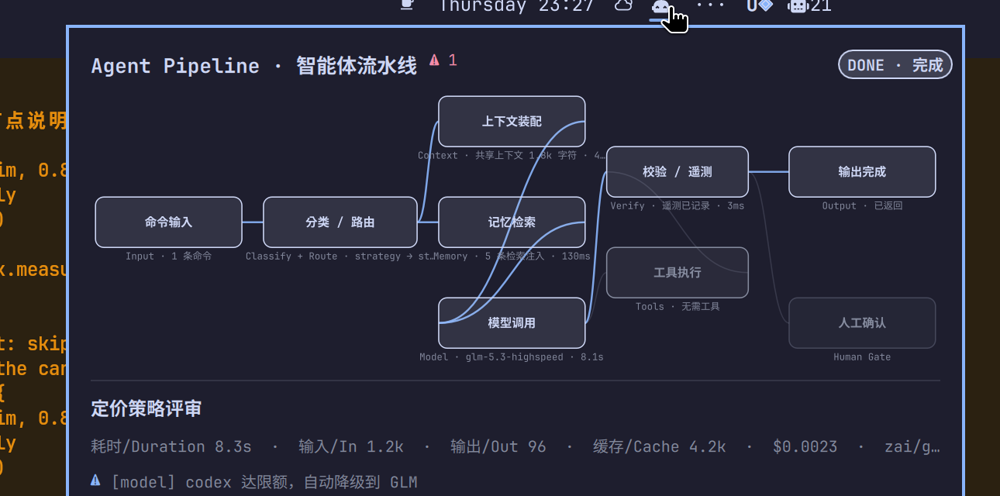
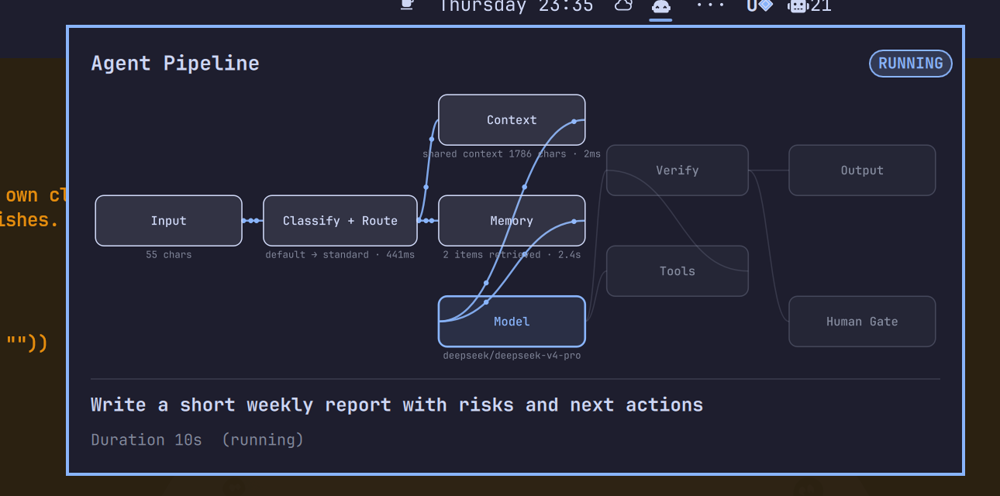
Agent Pipeline 0.3.0: English UI, live synchronized view
- every label, node name and panel string is English (Input, Classify + Route,
  Context, Memory, Model, Tools, Verify, Human Gate, Output; RUNNING/DONE/ERROR)
- the request caption is the owner's actual command, recorded verbatim
- live view while running: active node highlighted, dots flowing along the
  traversed edges, duration counting up (Duration 12s (running))
- README, demo data and examples in English

diff --git a/Panel.qml b/Panel.qml
@@ -40,6 +40,18 @@ Panel {
 
   // Flow animation: only while a request is in flight, so an idle bar costs nothing.
   property real phase: 0
+  property double nowMs: Date.now()
+
+  // While a request is in flight the panel ticks its own clock, so the duration
+  // counts up instead of showing 0 until the run finishes.
+  function liveDurationMs() {
+    if (!root.latest) return 0
+    var done = Model.durationMs(root.latest)
+    if (done) return done
+    var started = Date.parse(String(root.latest.at || ""))
+    if (isNaN(started)) return 0
+    return Math.max(0, root.nowMs - started)
+  }
   readonly property bool animating: !!latest && String(latest.state) === "running"
   readonly property var latestIssues: Model.issues(latest)
   readonly property int problems: Model.problemCount(latest)
@@ -68,10 +80,10 @@ Panel {
 
   function stateLabel(state) {
     var s = String(state || "").toLowerCase()
-    if (s === "done") return "DONE · 完成"
-    if (s === "running") return "RUNNING · 运行中"
-    if (s === "error") return "ERROR · 失败"
-    return "IDLE · 空闲"
+    if (s === "done") return "DONE"
+    if (s === "running") return "RUNNING"
+    if (s === "error") return "ERROR"
+    return "IDLE"
   }
 
   function withAlpha(c, a) {
@@ -135,6 +147,7 @@ Panel {
     repeat: true
     onTriggered: {
       root.phase = (root.phase + 0.06) % 1.0
+      root.nowMs = Date.now()
       graph.requestPaint()
     }
   }
@@ -166,7 +179,7 @@ Panel {
           spacing: Style.space(8)
 
           Text {
-            text: "Agent Pipeline · 智能体流水线"
+            text: "Agent Pipeline"
             color: root.foreground
             font.family: root.fontFamily
             font.pixelSize: Style.font.subtitle
@@ -295,7 +308,7 @@ Panel {
 
               var bits = []
               var en = Model.nodeSubtitle(node)
-              if (en) bits.push(en)
+              if (en && en !== String(node.label || "")) bits.push(en)
               var detail = Model.nodeDetail(root.latest, node.id)
               if (detail) bits.push(detail)
               var ms = Model.fmtMs(Model.nodeMs(root.latest, node.id))
@@ -330,7 +343,7 @@ Panel {
         Text {
           width: parent.width
           visible: !root.latest
-          text: "暂无记录 / No requests recorded yet. Any agent runtime can append to " + root.dataPath
+          text: "No requests recorded yet. Any agent runtime can append to " + root.dataPath
           color: root.dim
           font.family: root.fontFamily
           font.pixelSize: Style.font.body
@@ -354,10 +367,11 @@ Panel {
           text: {
             if (!root.latest) return ""
             var t = root.latest.tokens || {}
-            var bits = ["耗时/Duration " + (Model.fmtMs(Model.durationMs(root.latest)) || "0ms")]
-            if (t.input) bits.push("输入/In " + Model.fmtTokens(t.input))
-            if (t.output) bits.push("输出/Out " + Model.fmtTokens(t.output))
-            if (t.cacheRead) bits.push("缓存/Cache " + Model.fmtTokens(t.cacheRead))
+            var dur = Model.fmtMs(root.liveDurationMs()) || "0ms"
+            var bits = ["Duration " + dur + (root.animating ? "  (running)" : "")]
+            if (t.input) bits.push("In " + Model.fmtTokens(t.input))
+            if (t.output) bits.push("Out " + Model.fmtTokens(t.output))
+            if (t.cacheRead) bits.push("Cache " + Model.fmtTokens(t.cacheRead))
             var cost = Model.fmtCost(t.costUsd)
             if (cost !== "") bits.push(cost)
             if (root.latest.model) bits.push(root.latest.model)
@@ -407,7 +421,7 @@ Panel {
 
         Text {
           visible: root.recent.length > 0
-          text: "RECENT · 最近"
+          text: "RECENT"
           color: root.dim
           font.family: root.fontFamily
           font.pixelSize: Style.font.caption

diff --git a/Model.js b/Model.js
@@ -35,27 +35,27 @@ function parse(text) {
 var DEFAULT_ARCH = {
   width: 712, height: 236,
   nodes: [
-    { id: "input",      label: "命令输入",    labelEn: "Input",              x: 6,   y: 96,  w: 122, h: 42 },
-    { id: "router",     label: "分类 / 路由", labelEn: "Classify + Route",   x: 146, y: 96,  w: 128, h: 42 },
-    { id: "context",    label: "上下文装配",  labelEn: "Context",            x: 292, y: 12,  w: 122, h: 42 },
-    { id: "memory",     label: "记忆检索",    labelEn: "Memory",             x: 292, y: 96,  w: 122, h: 42 },
-    { id: "model",      label: "模型调用",    labelEn: "Model",              x: 292, y: 180, w: 122, h: 42 },
-    { id: "tools",      label: "工具执行",    labelEn: "Tools",              x: 432, y: 138, w: 118, h: 42 },
-    { id: "verify",     label: "校验 / 遥测", labelEn: "Verify",             x: 432, y: 54,  w: 118, h: 42 },
-    { id: "human_gate", label: "人工确认",    labelEn: "Human Gate",         x: 584, y: 180, w: 122, h: 42 },
-    { id: "output",     label: "输出完成",    labelEn: "Output",             x: 584, y: 54,  w: 122, h: 42 }
+    { id: "input",      label: "Input",            x: 6,   y: 96,  w: 122, h: 42 },
+    { id: "router",     label: "Classify + Route", x: 146, y: 96,  w: 128, h: 42 },
+    { id: "context",    label: "Context",          x: 292, y: 12,  w: 122, h: 42 },
+    { id: "memory",     label: "Memory",           x: 292, y: 96,  w: 122, h: 42 },
+    { id: "model",      label: "Model",            x: 292, y: 180, w: 122, h: 42 },
+    { id: "tools",      label: "Tools",            x: 432, y: 138, w: 118, h: 42 },
+    { id: "verify",     label: "Verify",           x: 432, y: 54,  w: 118, h: 42 },
+    { id: "human_gate", label: "Human Gate",       x: 584, y: 180, w: 122, h: 42 },
+    { id: "output",     label: "Output",           x: 584, y: 54,  w: 122, h: 42 }
   ],
   edges: [
     { from: "input", to: "router" },
-    { from: "router", to: "context", label: "上下文" },
-    { from: "router", to: "memory", label: "检索" },
+    { from: "router", to: "context", label: "context" },
+    { from: "router", to: "memory", label: "retrieve" },
     { from: "context", to: "model" },
     { from: "memory", to: "model" },
-    { from: "model", to: "tools", label: "需要工具" },
-    { from: "model", to: "verify", label: "回答" },
+    { from: "model", to: "tools", label: "needs tools" },
+    { from: "model", to: "verify", label: "answer" },
     { from: "tools", to: "verify" },
     { from: "verify", to: "output" },
-    { from: "verify", to: "human_gate", label: "需人工" }
+    { from: "verify", to: "human_gate", label: "needs human" }
   ]
 }
 

diff --git a/README.md b/README.md
@@ -28,19 +28,13 @@ The panel draws the agent's architecture as a **graph**, not a list:
 - under the graph: the request's duration, tokens (input / output / cache), cost, model, and
   every problem encountered (`issues`).
 
-That is enough to explain an agent run to someone who has never seen one: what it classified
-the request as, which model it chose, what it retrieved, which tools it ran, and what went wrong.
+While a request is still running the panel is **live**: the active node is highlighted, small
+dots flow along the edges it has traversed, the duration counts up, and the path fills in as the
+run progresses. It is a synchronized view of the run, not a post-mortem — which is what makes it
+usable for explaining an agent to someone who has never seen one: what it classified the request
+as, which model it chose, what it retrieved, which tools it ran, and what went wrong.
 
 ![pipeline graph](preview.png)
-
-## Compact, bilingual layout
-
-The canvas is sized to the graph's own bounding box (`contentBounds`), not to a fixed canvas
-area, so the panel stays tight whatever a runtime draws. Node cards carry the name in Chinese
-with `labelEn` (or the stage id) plus the runtime detail and duration underneath, and the panel
-labels are bilingual: `Agent Pipeline · 智能体流水线`, `DONE · 完成`, `均值/Duration`, `输入/In`,
-`输出/Out`, `缓存/Cache`, `RECENT · 最近`. Edge labels are skipped on short hops so they never
-sit on top of a node caption.
 
 ## How it gets data
 
@@ -56,26 +50,26 @@ $XDG_STATE_HOME/omarchy/agent-pipeline/requests.json      # usually ~/.local/sta
   "architecture": {
     "width": 720, "height": 380,
     "nodes": [
-      { "id": "input",  "label": "Owner 命令",  "x": 8,   "y": 158, "w": 116, "h": 46 },
-      { "id": "router", "label": "分类 / 路由", "x": 156, "y": 158, "w": 124, "h": 46 }
+      { "id": "input",  "label": "Input",           "x": 6,   "y": 96,  "w": 122, "h": 42 },
+      { "id": "router", "label": "Classify + Route", "x": 146, "y": 96,  "w": 128, "h": 42 }
     ],
     "edges": [ { "from": "input", "to": "router" } ]
   },
   "requests": [
     {
-      "id": "req-42", "at": "2026-10-01T15:17:00Z", "title": "memory-eval 命令注册在哪里？",
+      "id": "req-42", "at": "2026-10-01T15:17:00Z", "title": "Where is the memory-eval command registered?",
       "state": "done", "taskClass": "lookup", "route": "cheap", "model": "zai/glm-5.3-flash",
       "durationMs": 15500,
       "tokens": { "input": 352, "output": 166, "cacheRead": 4928, "costUsd": 0.00028 },
       "nodes": [
         { "id": "router",  "status": "ok",      "detail": "lookup → cheap", "ms": 239 },
-        { "id": "memory",  "status": "ok",      "detail": "1 条检索注入",    "ms": 2793 },
+        { "id": "memory",  "status": "ok",      "detail": "1 item retrieved", "ms": 2793 },
         { "id": "model",   "status": "ok",      "detail": "zai/glm-5.3-flash", "ms": 11989 },
-        { "id": "tools",   "status": "ok",      "detail": "2 次工具调用",    "ms": 0 },
-        { "id": "verify",  "status": "ok",      "detail": "用量已记录",      "ms": 1 }
+        { "id": "tools",   "status": "ok",      "detail": "2 tool calls", "ms": 0 },
+        { "id": "verify",  "status": "ok",      "detail": "telemetry recorded", "ms": 1 }
       ],
       "edges": [ { "from": "input", "to": "router" }, { "from": "router", "to": "memory" } ],
-      "issues": [ { "level": "warn", "node": "model", "detail": "codex 达限额，降级到 GLM" } ]
+      "issues": [ { "level": "warn", "node": "model", "detail": "codex hit its limit, fell back to GLM" } ]
     }
   ]
 }
@@ -94,12 +88,12 @@ never fails loudly, so instrumentation cannot break the agent it observes:
 # optional: describe your own architecture once (omit to use the shipped pipeline)
 agent-pipeline architecture --file my-graph.json
 
-agent-pipeline start --id "$REQ" --title "memory-eval 命令注册在哪里？" --agent entrepreneur-agent
+agent-pipeline start --id "$REQ" --title "Where is the memory-eval command registered?" --agent entrepreneur-agent
 agent-pipeline node  --id "$REQ" --node router --status ok --detail "lookup → cheap"     --ms 239
-agent-pipeline node  --id "$REQ" --node memory --status ok --detail "1 条检索注入"        --ms 2793
+agent-pipeline node  --id "$REQ" --node memory --status ok --detail "1 item retrieved"      --ms 2793
 agent-pipeline node  --id "$REQ" --node model  --status ok --detail "zai/glm-5.3-flash"  --ms 11989
-agent-pipeline node  --id "$REQ" --node tools  --status ok --detail "2 次工具调用"        --ms 0
-agent-pipeline issue --id "$REQ" --level warn --node model --detail "codex 达限额，降级到 GLM"
+agent-pipeline node  --id "$REQ" --node tools  --status ok --detail "2 tool calls"          --ms 0
+agent-pipeline issue --id "$REQ" --level warn --node model --detail "codex hit its limit, fell back to GLM"
 agent-pipeline end   --id "$REQ" --state done --duration-ms 15500 \
   --tokens-json '{"input":352,"output":166,"cacheRead":4928,"costUsd":0.00028}'
 ```
